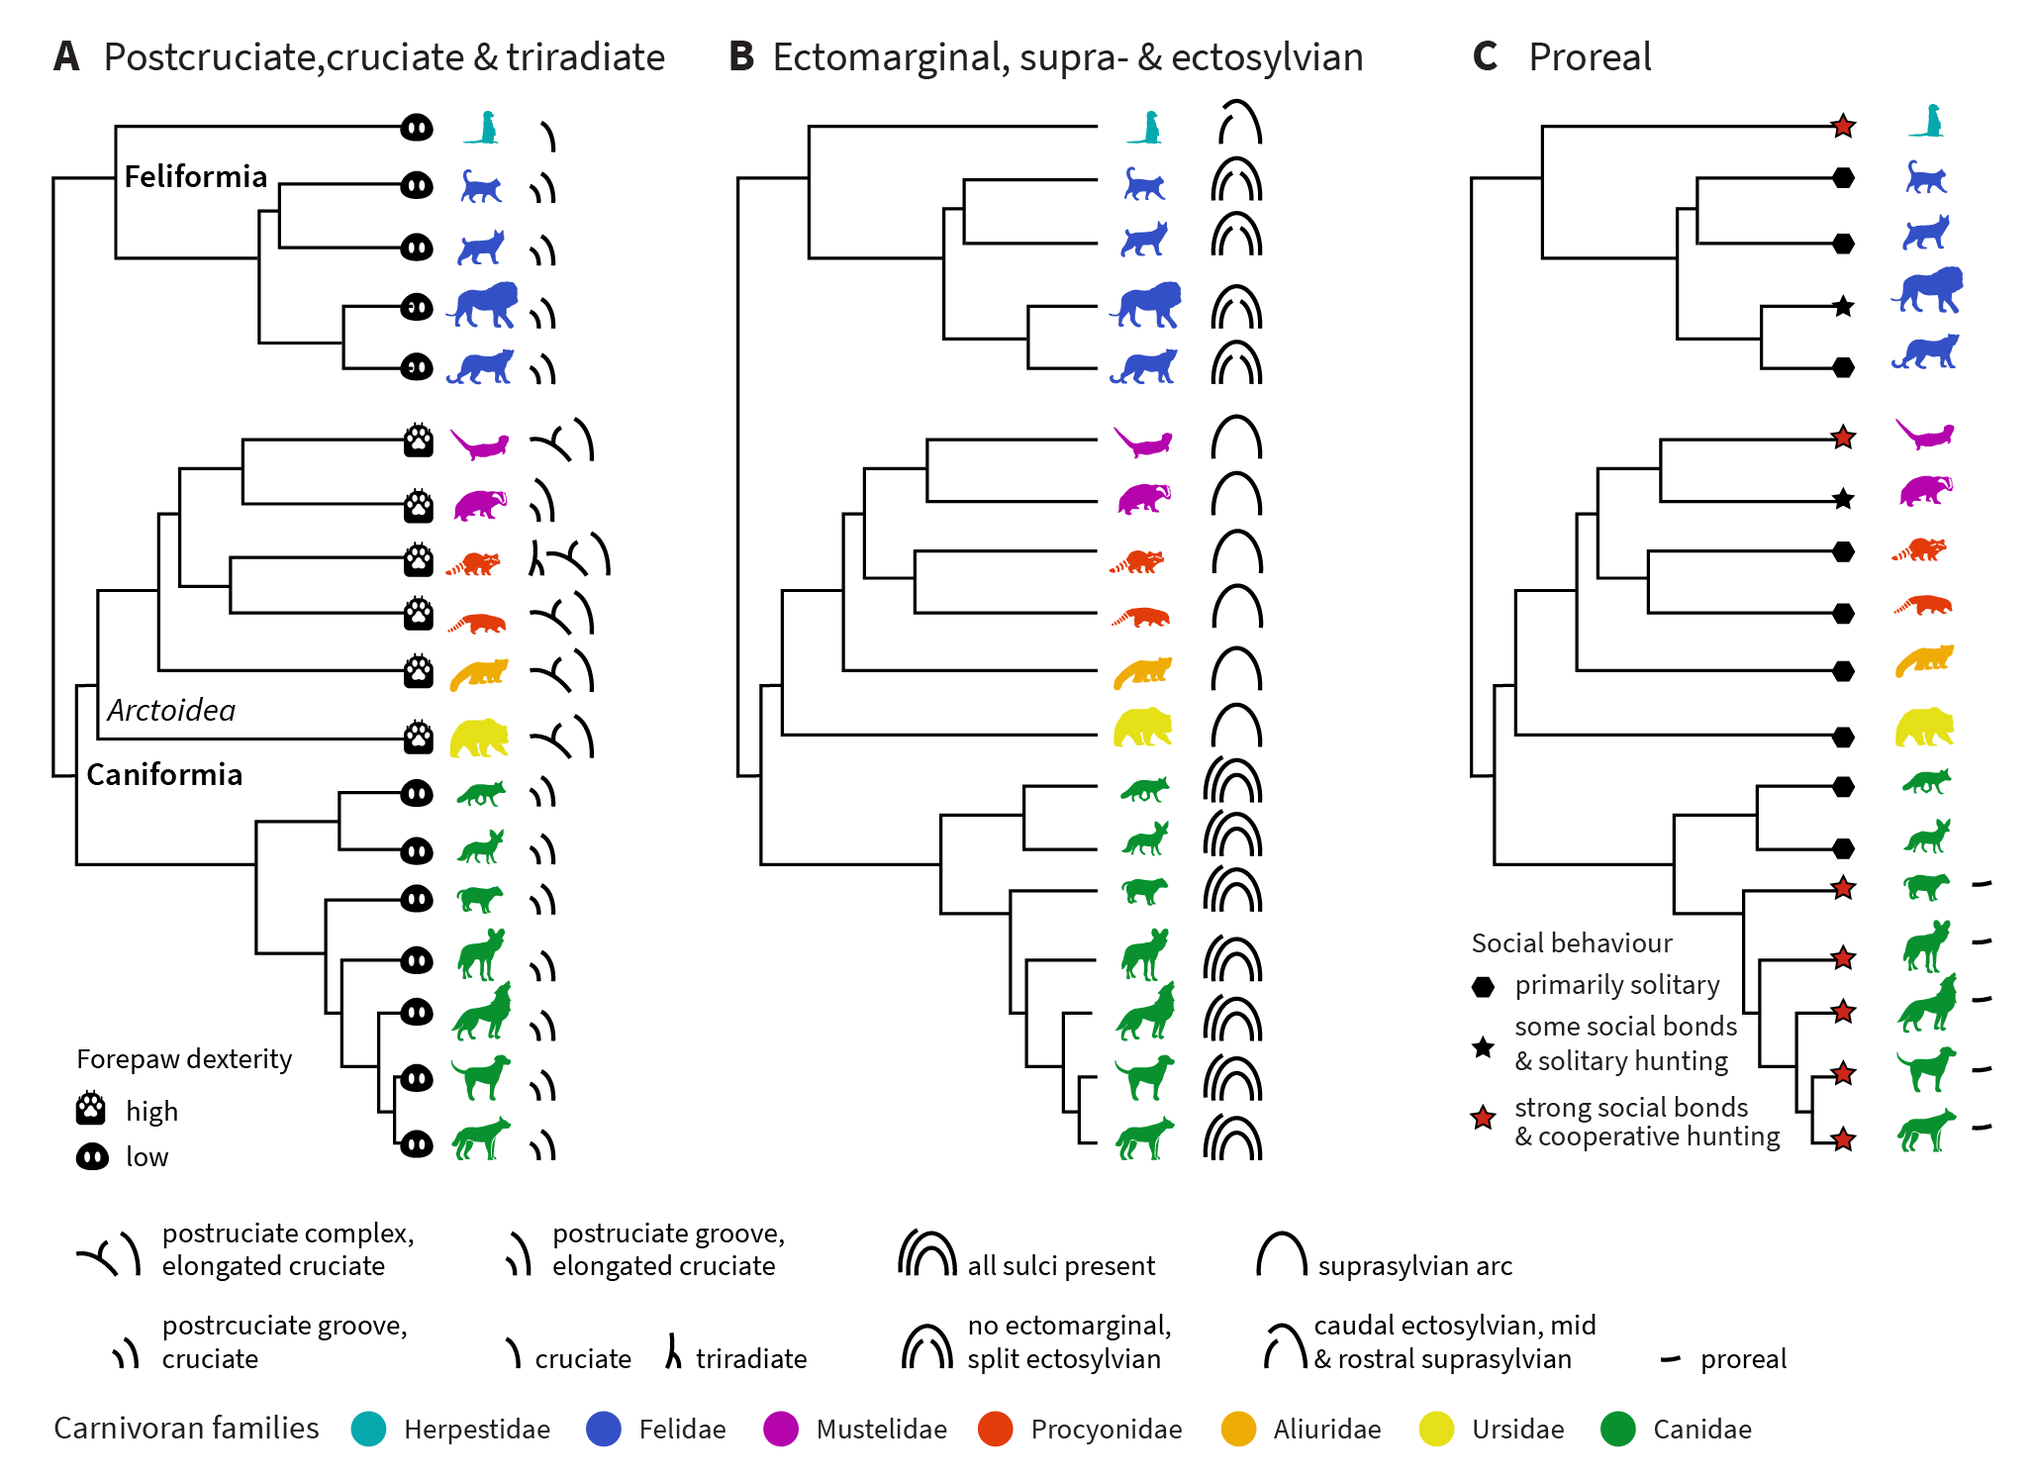
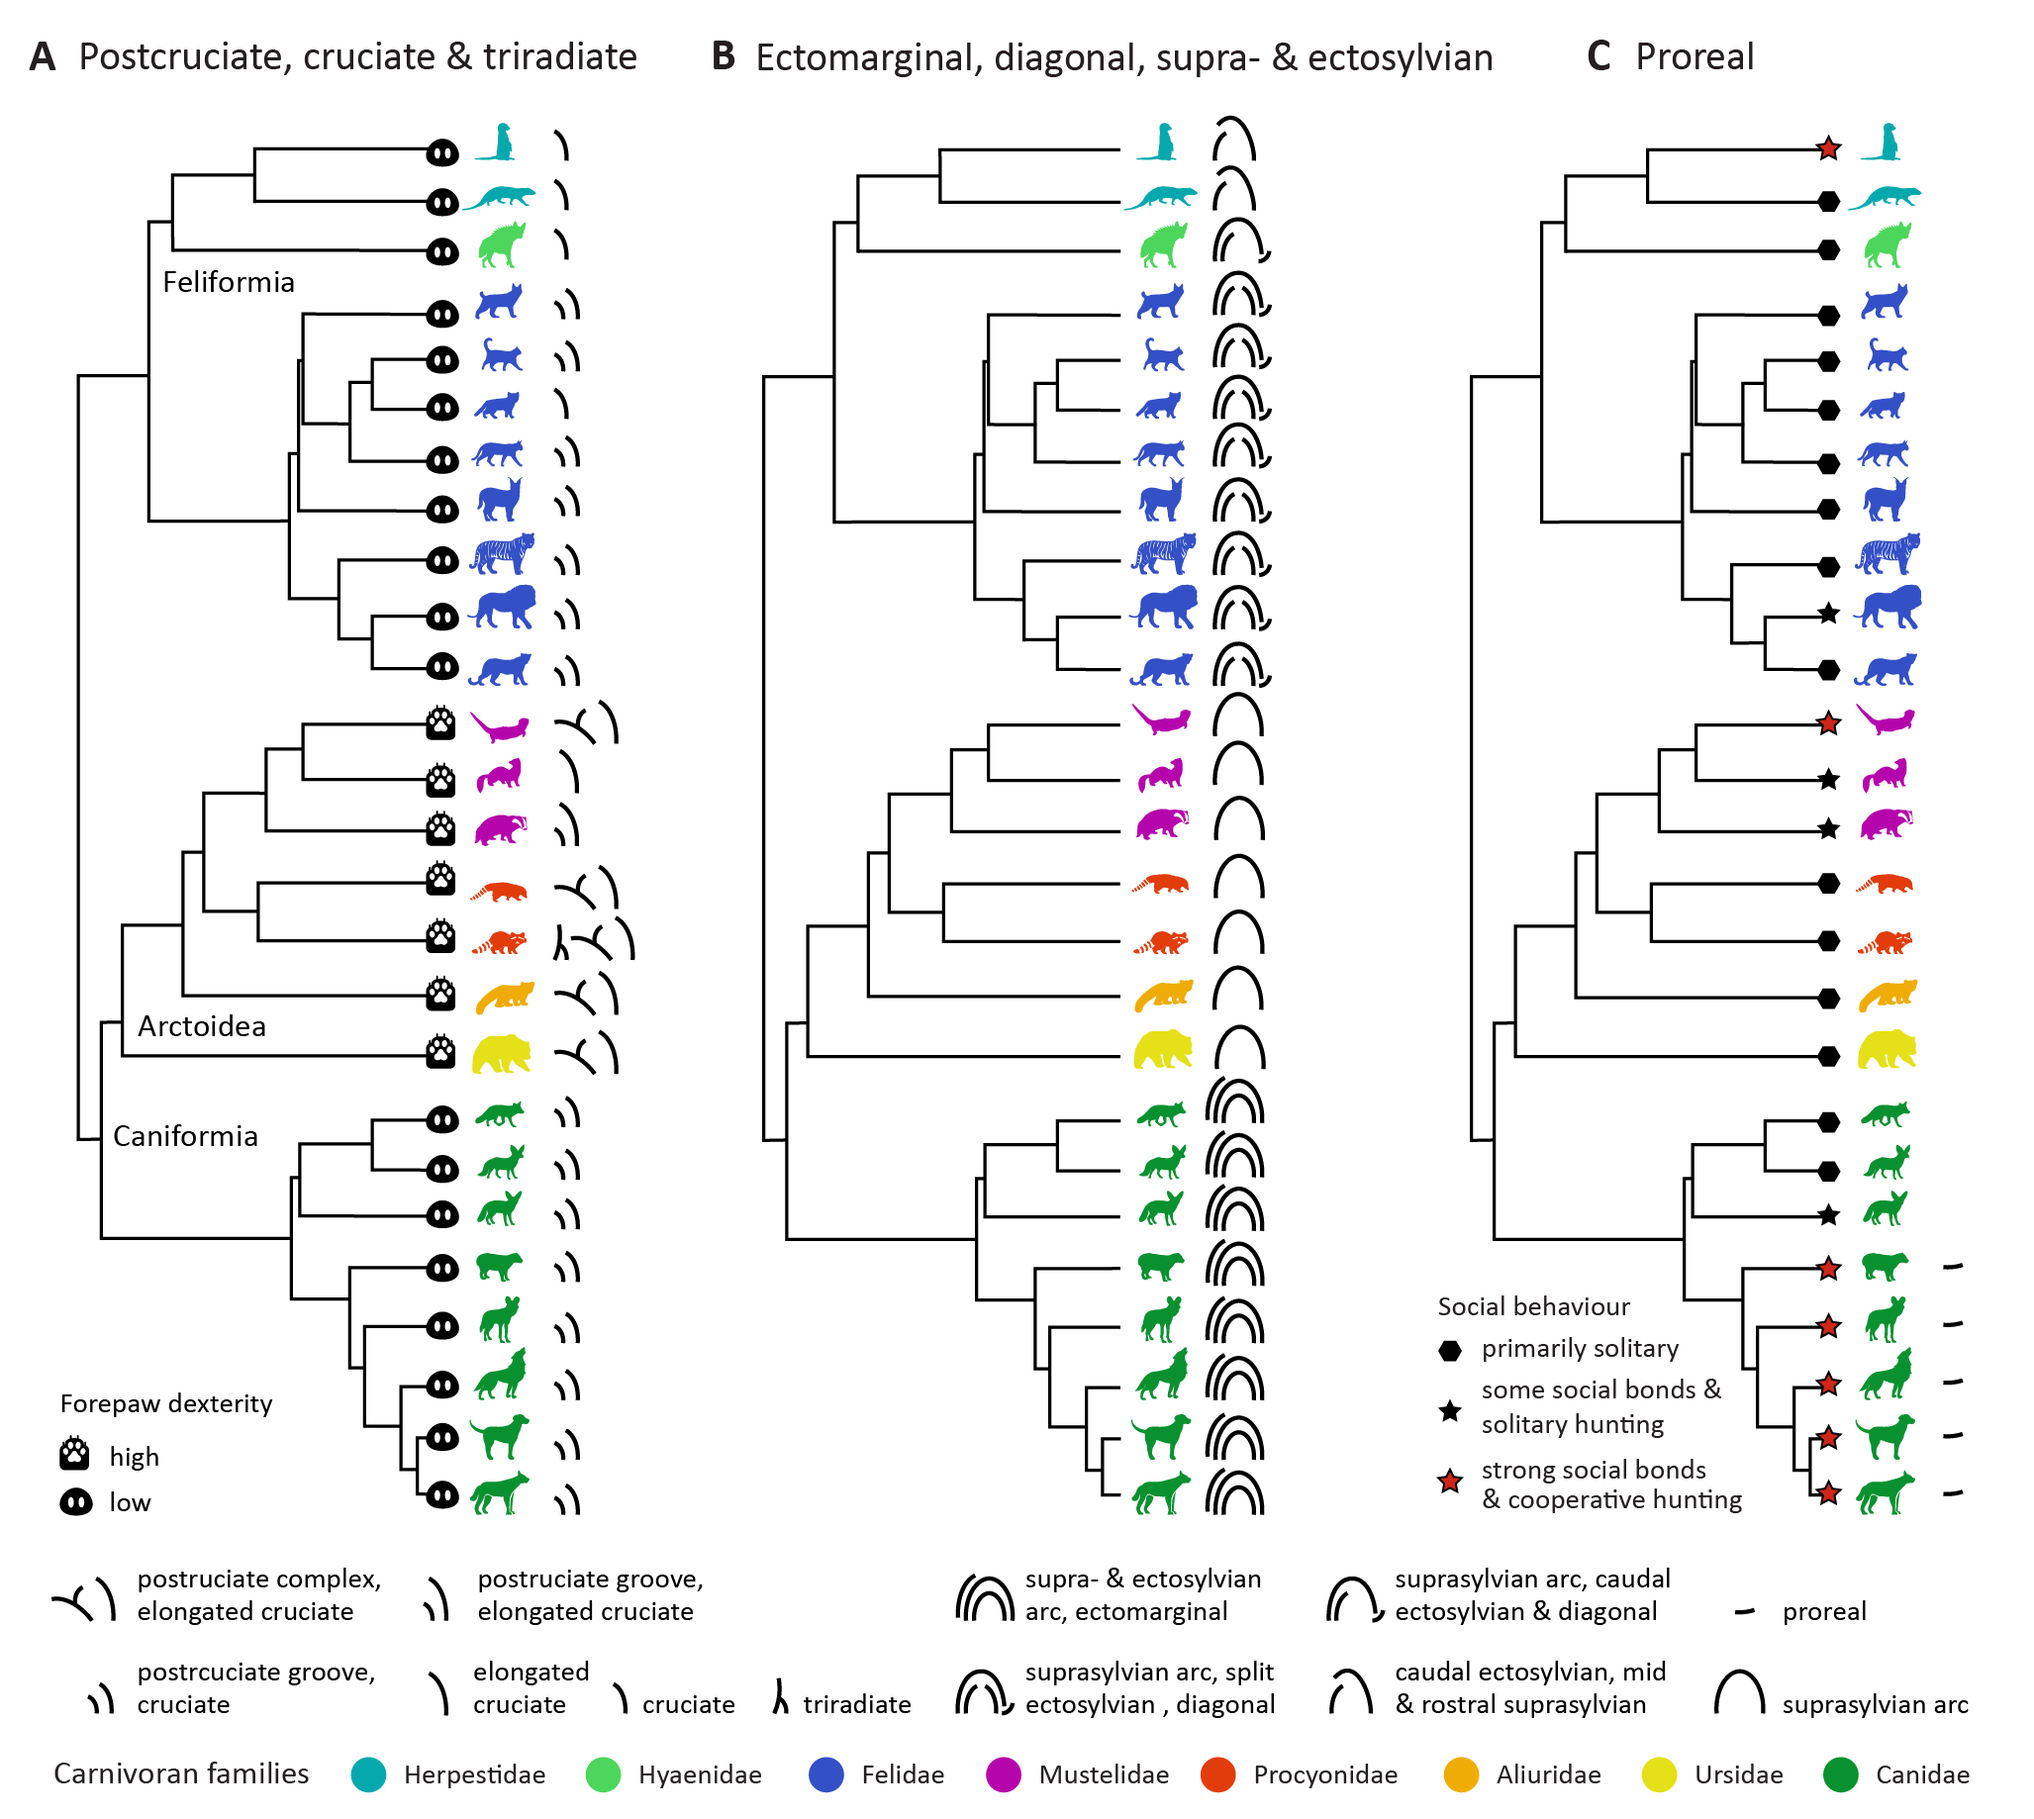
updated CV & publications

diff --git a/content/publication/boch2024_elife/index.md b/content/publication/boch2024_elife/index.md
@@ -31,8 +31,8 @@ authors:
 #- "Equal contribution"
 #- "Equal contribution"
 
-date: "2024-12-01T00:00:00Z"
-doi: "10.1162/imag_a_00385"
+date: "2025-11-01T00:00:00Z"
+doi: "10.1101/2024.06.03.597118"
 
 # Schedule page publish date (NOT publication's date).
 publishDate: "2024-11-01T00:00:00Z"
@@ -44,9 +44,9 @@ publishDate: "2024-11-01T00:00:00Z"
 publication_types: ["2"]
 
 # Publication name and optional abbreviated publication name.
-publication: '*eLife*'
+publication: 'reviewed preprint *eLife*'
 
-abstract: Carnivorans are an important study object for comparative neuroscience, as they exhibit a wide range of behaviours, ecological adaptations, and social structures. Previous studies have mainly examined relative brain size, but a comprehensive understanding of brain diversity requires the investigation of other aspects of their neuroanatomy. Here, we obtained primarily post-mortem brain scans from eighteen species of the order Carnivora, reconstructed their cortical surfaces, and examined neocortical sulcal anatomy to establish a framework for systematic inter-species comparisons. We observed distinct regional variations in sulcal anatomy, potentially related to the species’ behaviour and ecology. Arctoidea species with pronounced forepaw dexterity exhibited complex sulcal configurations in the presumed somatosensory cortex but low sulcal complexity in the presumed visual and auditory occipitotemporal cortex. Canidae had the largest number of unique major sulci with a unique sulcus in the occipital cortex and highly social canids featuring an additional frontal cortex sulcus. We also observed differentially complex occipito-temporal sulcal patterns in Felidae and Canidae, indicative of changes in auditory and visual areas that may be related to foraging strategies and social behaviour. In conclusion, this study presents an inventory of the sulcal anatomy of a number of rarely studied carnivoran brains and establishes a framework and novel avenues for further investigations employing a variety of neuroimaging modalities to reveal more about carnivoran brain diversity.
+abstract: Carnivorans are an important study object for comparative neuroscience, as they exhibit a wide range of behaviours, ecological adaptations, and social structures. Previous studies have mainly examined relative brain size, but a comprehensive understanding of brain diversity requires the investigation of other aspects of their neuroanatomy. Here, we obtained primarily post-mortem brain scans from twenty-six species of the order Carnivora, spanning across eight families with diverse representatives and including additional individuals for selected species, to create the largest Carnivoran brain collection to date. We then reconstructed their cortical surfaces, and examined neocortical sulcal anatomy to establish a framework for systematic inter-species comparisons. We observed distinct regional variations in sulcal anatomy, potentially related to the species’ behaviour and ecology. Arctoidea species with pronounced forepaw dexterity exhibited complex sulcal configurations in the presumed somatosensory cortex but low sulcal complexity in the presumed visual and auditory occipitotemporal cortex. Canidae had the largest number of unique major sulci with a unique sulcus in the occipital cortex and highly social canids featuring an additional frontal cortex sulcus. We also observed differentially complex occipito-temporal sulcal patterns in Felidae and Canidae, indicative of changes in auditory and visual areas that may be related to foraging strategies and social behaviour. In conclusion, this study presents an inventory of the sulcal anatomy of a number of rarely studied carnivoran brains including detailed digital atlases and establishes a framework and novel avenues for further investigations employing a variety of neuroimaging modalities to reveal more about carnivoran brain diversity.
 
 # Summary. An optional shortened abstract.
 summary: 
@@ -60,6 +60,9 @@ featured: false
 links:
 - name: 'Digital Brain Zoo'
   url: 'https://open.win.ox.ac.uk/DigitalBrainBank/#/datasets/zoo'
+
+- name: 'GitLab repository'
+  url: 'https://git.fmrib.ox.ac.uk/neuroecologylab/carnivore-surfaces'
 url_project: ''
 url_slides: ''
 url_source: ''
@@ -69,7 +72,7 @@ url_video: ''
 # Featured image
 # To use, add an image named `featured.jpg/png` to your page's folder. 
 image:
-  caption: 'Image credit: [Boch et al. 2024, eLife] (https://doi.org/10.7554/eLife.100851.1)'
+  caption: 'Image credit: [Boch et al. 2025, eLife] (https://doi.org/10.7554/eLife.100851.2)'
   focal_point: ""
   preview_only: false
 

diff --git a/content/preprints/benn2024biorxiv/index.md b/content/preprints/benn2024biorxiv/index.md
@@ -1,0 +1,89 @@
+---
+title: "Precon_all: A species-agnostic automated pipeline for non-human cortical surface reconstruction"
+
+# Authors
+# If you created a profile for a user (e.g. the default `admin` user), write the username (folder name) here 
+# and it will be replaced with their full name and linked to their profile.
+authors: 
+- R. Austin Benn
+- Ting Xu
+- Rogier B. Mars
+- admin
+- Lea Roumazeilles
+- Katja Heuer
+- Roberto Toro
+- Daniel S. Margulies
+- J.P. Manzano-Patron
+- Paula Montesinos
+- Carlos Galan-Arriola
+- Gonzalo Lopez-Martin
+- Javier Sanchez-Gonzalez
+- Eugene P. Duff
+- Borja Ibañez
+
+
+# Author notes (optional)
+#author_notes:
+#- "Equal contribution"
+#- "Equal contribution"
+
+date: "2025-01-01T00:00:00Z"
+doi: "10.1101/2025.04.16.649072"
+
+# Schedule page publish date (NOT publication's date).
+publishDate: "2017-01-01T00:00:00Z"
+
+# Publication type.
+# Legend: 0 = Uncategorized; 1 = Conference paper; 2 = Journal article;
+# 3 = Preprint / Working Paper; 4 = Report; 5 = Book; 6 = Book section;
+# 7 = Thesis; 8 = Patent
+publication_types: ["3"]
+
+# Publication name and optional abbreviated publication name.
+publication: 'under review'
+#publication_short: In *ICW*
+
+abstract: Cortical surface reconstruction has transformed how we study brain morphology and geometry. However, extending these methods to non-human species has been limited by the lack of standardized pipelines, anatomical templates, and variability in imaging protocols. To address these challenges, we present Precon_all, an open-source, species-agnostic pipeline that automates cortical surface reconstruction for non-human neuroimaging. It runs reliably across a wide range of anatomical structures and imaging conditions and has been successfully applied to datasets from primates, carnivores, and artiodactyls. Its modular framework mirrors human neuroimaging workflows, supports manual quality control, and produces outputs compatible with FreeSurfer and Connectome Workbench. In doing so, it substantially reduces technical barriers to non-human neuroimaging. As data-sharing initiatives continue to expand access to non-human imaging datasets, Precon_all provides a scalable and standardized solution that supports the broader adoption of surface-based methods for studying cortical evolution through comparative neuroscience
+
+# Summary. An optional shortened abstract.
+summary:  #signal peaked earlier in dogs than predicted by the human HRF.
+
+tags: []
+
+# Display this page in the Featured widget?
+featured: false
+
+# Custom links (uncomment lines below)
+links:
+url_pdf: 'https://doi.org/10.1101/2025.04.16.649072'
+url_code: ''
+url_dataset: ''
+url_poster: ''
+url_project: ''
+url_slides: ''
+url_source: ''
+url_video: ''
+
+# Featured image
+# To use, add an image named `featured.jpg/png` to your page's folder. 
+image:
+  caption: ''
+  focal_point: ""
+  preview_only: false
+
+# Associated Projects (optional).
+#   Associate this publication with one or more of your projects.
+#   Simply enter your project's folder or file name without extension.
+#   E.g. `internal-project` references `content/project/internal-project/index.md`.
+#   Otherwise, set `projects: []`.
+projects:
+- 'empathy'
+
+# Slides (optional).
+#   Associate this publication with Markdown slides.
+#   Simply enter your slide deck's filename without extension.
+#   E.g. `slides: "example"` references `content/slides/example/index.md`.
+#   Otherwise, set `slides: ""`.
+#slides: example
+---
+

diff --git a/content/authors/admin/_index.md b/content/authors/admin/_index.md
@@ -88,8 +88,7 @@ email: ""
 # Highlight the author in author lists? (true/false) 
 highlight_name: true
 ---
-### Short Bio
-I am a postdoctoral research fellow at the [Cognitive Neuroecology Lab](https://users.ox.ac.uk/~xpsy0353/), University of Oxford, UK.
+I am currently a postdoctoral research fellow at the [Cognitive Neuroecology Lab](https://users.ox.ac.uk/~xpsy0353/), University of Oxford, UK. Beginning June 2026, I will start a tenure-track position as Assistant Professor of Social Cognition at the Faculty of Psychology and Messerli Research Institute, University of Vienna, where I will establish the Social Neuroecology Lab.
 
 **My research focuses on understanding brain diversity, driven by the central question of what makes us social**. Using a comparative framework, I aim to uncover the fundamental principles underlying the neural mechanisms of social behaviour across diverse mammalian species, while also exploring the factors that drive differences in brain organization. By integrating multiple non-invasive neuroimaging modalities, I investigate the evolution, structure, and function of the social brain, gaining insights into how social behaviours emerge.
 

diff --git a/content/awards/vbgwisspreis/index.md b/content/awards/vbgwisspreis/index.md
@@ -1,0 +1,32 @@
+---
+title: Early career researcher prize, Provincial government of Vorarlberg, Austria (3000€)
+summary: Recognition for outstanding research achievements in comparative neuroscience and psychology
+
+
+tags:
+- ""
+date: "2025-08-27T00:00:00Z"
+
+show_date: false
+
+# Optional external URL for project (replaces project detail page).
+external_link: ""
+
+image:
+  caption: ""
+  focal_point: Smart
+
+#url_code: ""
+#url_pdf: ""
+#url_slides: ""
+
+
+# Slides (optional).
+#   Associate this project with Markdown slides.
+#   Simply enter your slide deck's filename without extension.
+#   E.g. `slides = "example-slides"` references `content/slides/example-slides.md`.
+#   Otherwise, set `slides = ""`.
+
+slides: ""
+---
+Recognition for outstanding research achievements in comparative neuroscience and psychology
